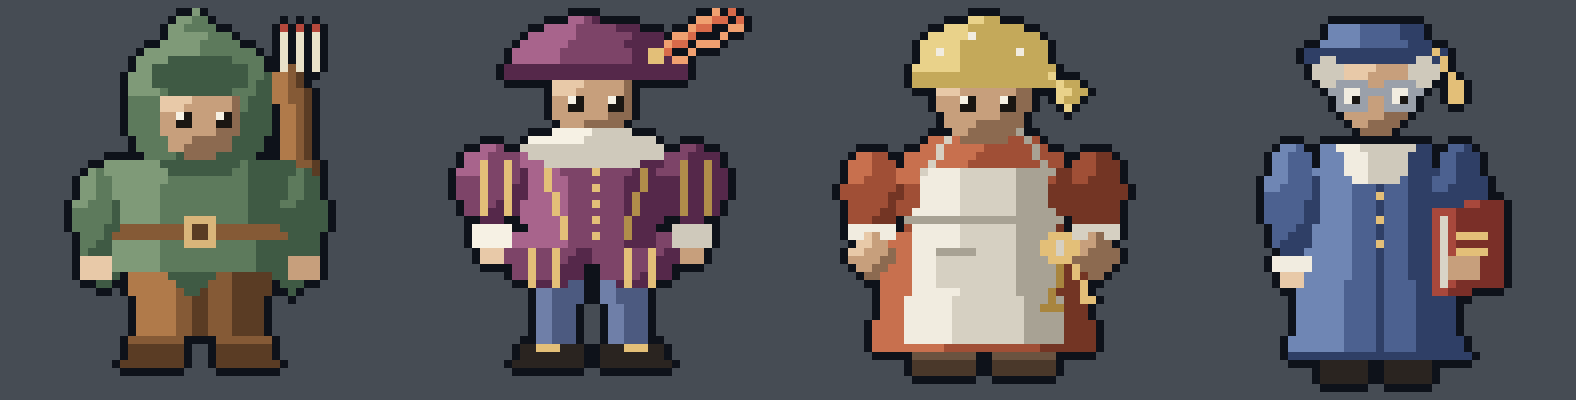
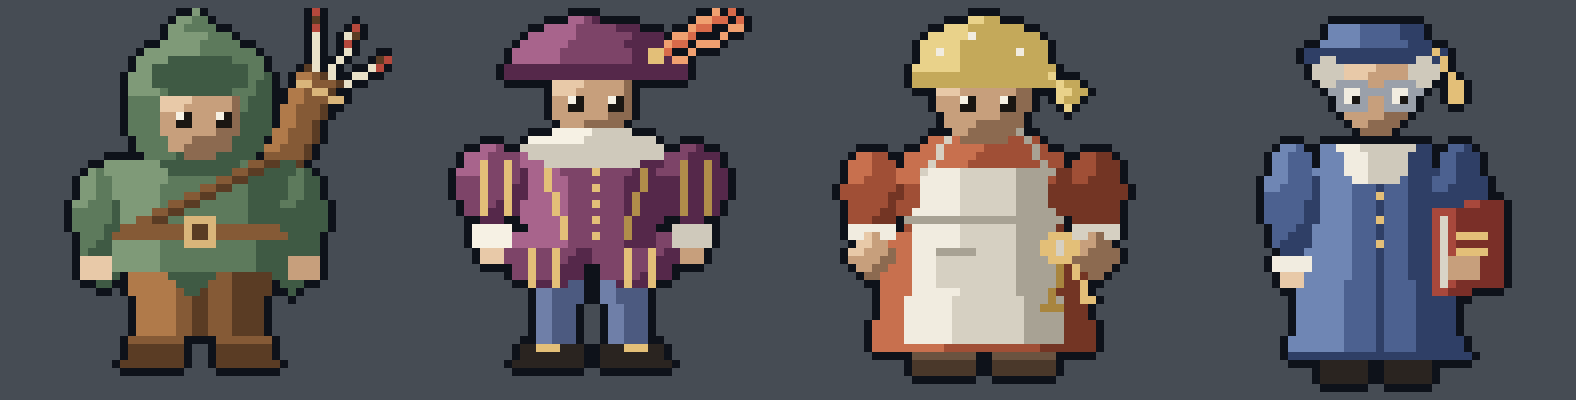
The hunter's quiver redrawn: slung at a lean, a strap, fletched arrows
Claude-Session: https://claude.ai/code/session_016253ebK21RLu34sDPa2rxn

Changed region(s): [[0.0622, 0.0, 0.2487, 0.57]]

diff --git a/design/figures48/figs.py b/design/figures48/figs.py
@@ -15,8 +15,16 @@ def boots(s, y, c, hi):
 
 # ---- the hunter: a short hooded cloak in fog green, leather, a quiver over the shoulder
 s = Spr({**SKIN, 'a': '#7f9a78', 'b': '#5d7a5c', 'c': '#3f5a44', 'l': '#b07a4a', 'm': '#855a36', 'n': '#5a3c24', 'd': '#3a3028', 'g': '#d9b57a', 'f': '#e9e1c8', 'r': '#b5483c'})
-s.poly([(33, 8), (37, 6), (39, 24), (35, 25)], 'lmn')            # quiver behind the shoulder
-for x in (34, 36, 38): s.line(x, 2, x, 7, 'f'); s.px(x, 2, 'r')
+# the quiver, slung across the back: its mouth rises behind the right shoulder at a
+# lean, three fletched arrows fanned out of it
+s.poly([(31, 20), (36, 22), (42, 9), (37, 7)], 'lmn')
+s.line(37, 7, 42, 9, 'n'); s.line(36, 9, 41, 11, 'g')            # its rim, and a band under it
+for (x0, y0, x1, y1) in ((38, 7, 38, 0), (40, 8, 43, 2), (42, 9, 47, 6)):
+    s.line(x0, y0, x1, y1, 'f')                                  # a pale shaft
+    dx, dy = (x1 - x0), (y1 - y0)
+    for t in (0.72, 1.0):                                        # red fletching at its end
+        s.px(x0 + dx * t, y0 + dy * t, 'r')
+    s.px(x0 + dx * 0.86, y0 + dy * 0.86, 'n')
 s.poly([(15, 30), (33, 30), (32, 41), (16, 41)], 'lmn')          # leggings
 s.rect(23, 33, 2, 8, 'n')
 s.poly([(12, 19), (36, 19), (38, 33), (10, 33)], 'abc')          # cloak, short
@@ -25,6 +33,7 @@ s.ell(24, 12, 9.4, 9.2, 'abc')                                   # hood
 s.poly([(19, 3), (24, 0), (27, 4)], 'abb')                        # hood's peak
 face(s, 24, 13.5)
 s.ell(24, 8.6, 6.4, 2.6, 'c')                                    # hood's shadow on the brow
+s.line(14, 28, 33, 19, 'n'); s.line(14, 27, 33, 18, 'm')         # the quiver's strap, hip to shoulder
 s.rect(13, 27, 22, 2, 'm'); s.rect(22, 26, 4, 4, 'g'); s.rect(23, 27, 2, 2, 'n')   # belt
 s.ell(11, 26, 2.6, 6, 'abc'); s.ell(37, 26, 2.6, 6, 'bcc')       # arms under the cloak
 s.rect(9, 31, 4, 3, 'k'); s.rect(35, 31, 4, 3, 'K')
